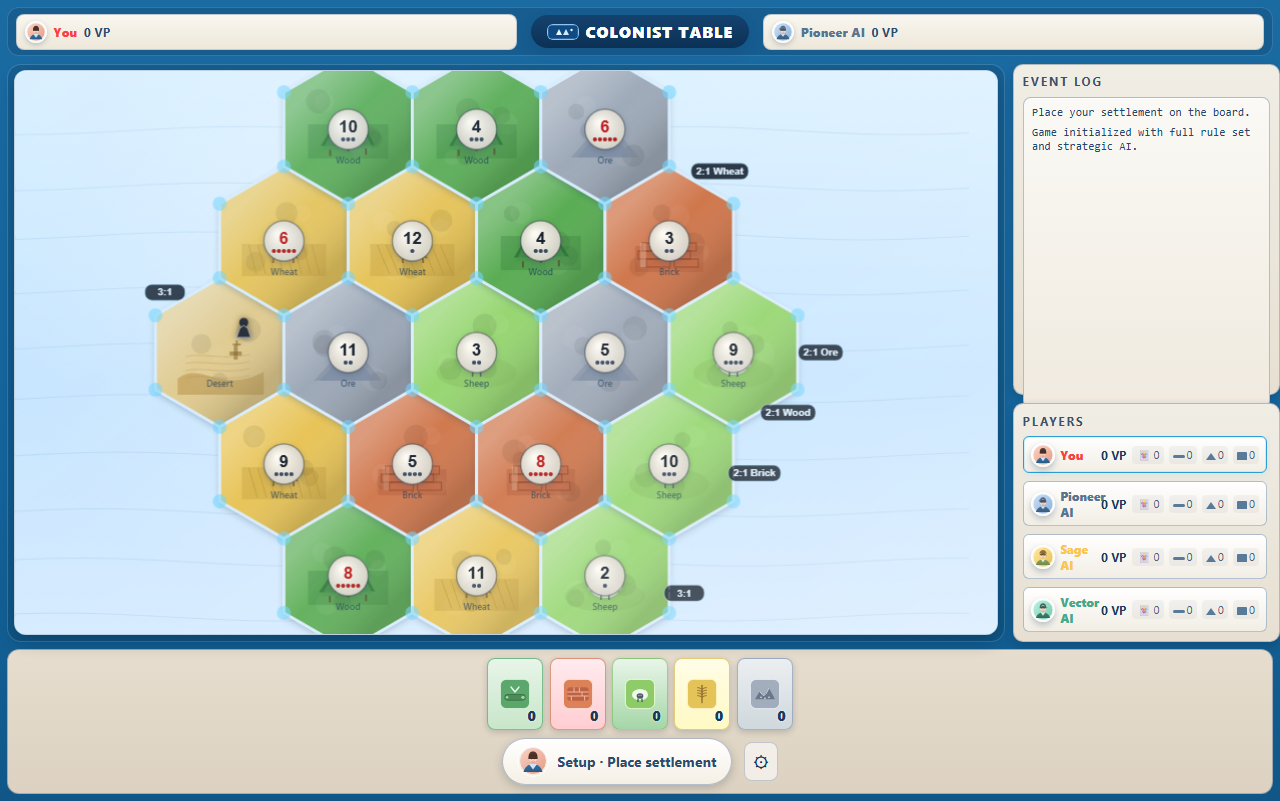
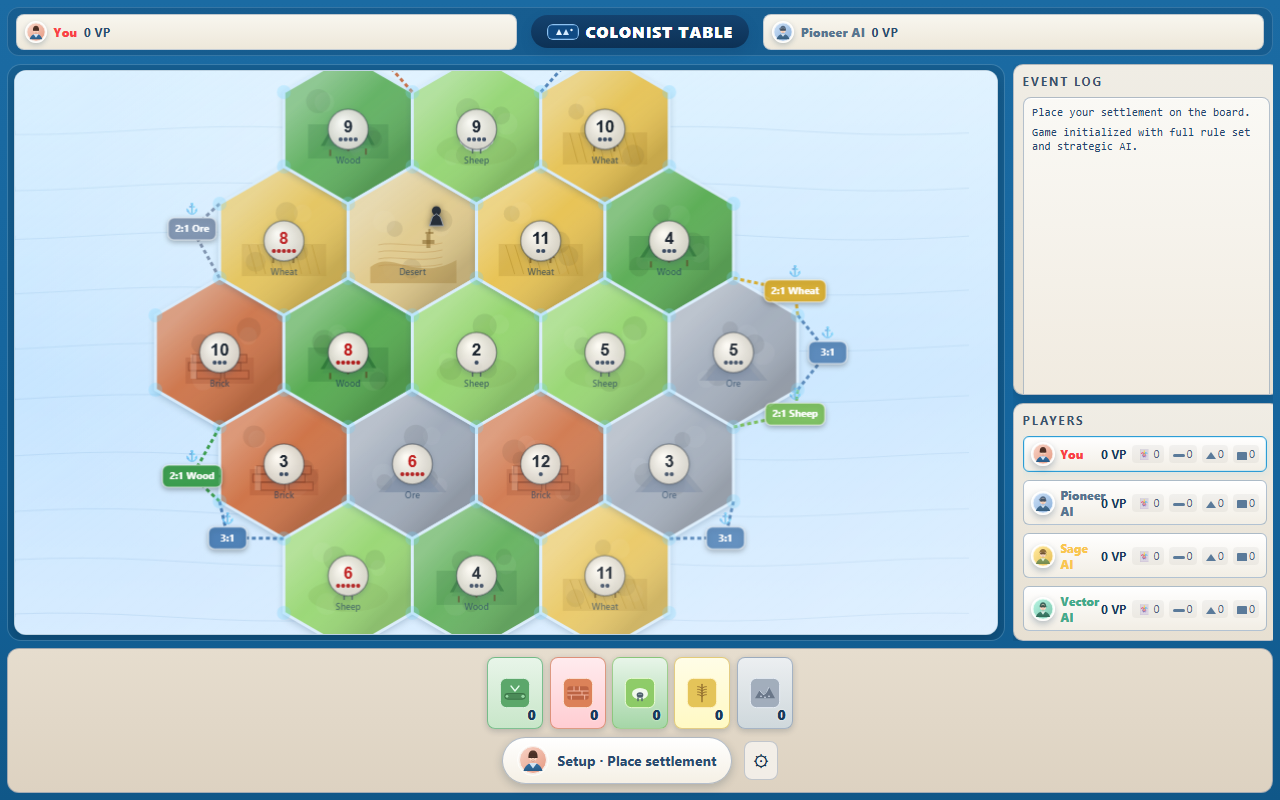
fix: viewport-fit layout, setup-phase hover priority, prominent harbor badges

diff --git a/src/game.js b/src/game.js
@@ -968,7 +968,7 @@ class ColonistFullGame {
 
   handleCanvasMouseDown(event) {
     if (event.button !== 0) return;
-    if (this.pendingAction) return;
+    if (this.pendingAction || this.setupPhase) return;
     this.dragState.active = true;
     const { x: sx, y: sy } = this.getCanvasPoint(event);
     this.dragState.startX = sx;
@@ -1072,6 +1072,28 @@ class ColonistFullGame {
 
     const player = this.currentPlayer;
     const humanMain = player?.isHuman && this.phase === "main";
+
+    if (this.setupPhase && player?.isHuman) {
+      if (this.setupAction === "settlement") {
+        const nodeId = this.findNodeAt(worldX, worldY);
+        if (nodeId != null && this.canBuildSettlement(player, nodeId, true)) {
+          this.hoverNodeId = nodeId;
+          this.hoverTooltip = "Place settlement";
+          this.canvas.style.cursor = "pointer";
+          return;
+        }
+      } else if (this.setupAction === "road") {
+        const edgeId = this.findEdgeAt(worldX, worldY);
+        if (edgeId != null) {
+          this.hoverEdgeId = edgeId;
+          this.hoverTooltip = "Place road";
+          this.canvas.style.cursor = "pointer";
+          return;
+        }
+      }
+      this.canvas.style.cursor = "crosshair";
+      return;
+    }
 
     if (humanMain && this.pendingAction === "road") {
       const edgeId = this.findEdgeAt(worldX, worldY);
@@ -2332,6 +2354,10 @@ class ColonistFullGame {
 
   drawPorts() {
     const ctx = this.ctx;
+    const portColor = {
+      wood: "#3d9e50", brick: "#c66536", sheep: "#6db84e",
+      wheat: "#d4a825", ore: "#7a8da9", any: "#4a7eb5",
+    };
     this.ports.forEach((port) => {
       const edge = this.geometry.edges[port.edgeId];
       const p1 = this.geometry.nodes[edge.nodes[0]];
@@ -2340,38 +2366,63 @@ class ColonistFullGame {
       const my = (p1.y + p2.y) / 2;
       const dx = mx - this.geometry.centerX;
       const dy = my - this.geometry.centerY;
-      const length = Math.hypot(dx, dy) || 1;
-      const ox = (dx / length) * 17;
-      const oy = (dy / length) * 17;
+      const len = Math.hypot(dx, dy) || 1;
+      const nx = dx / len;
+      const ny = dy / len;
 
-      ctx.strokeStyle = "rgba(197, 231, 255, 0.72)";
-      ctx.lineWidth = 2;
+      const dockDist = 30;
+      const dockX = mx + nx * dockDist;
+      const dockY = my + ny * dockDist;
+      const color = portColor[port.type] || portColor.any;
+
+      ctx.save();
+      ctx.strokeStyle = color;
+      ctx.lineWidth = 3;
+      ctx.setLineDash([4, 3]);
       ctx.beginPath();
-      ctx.moveTo(mx, my);
-      ctx.lineTo(mx + ox, my + oy);
+      ctx.moveTo(p1.x, p1.y);
+      ctx.lineTo(dockX, dockY);
+      ctx.moveTo(p2.x, p2.y);
+      ctx.lineTo(dockX, dockY);
       ctx.stroke();
+      ctx.setLineDash([]);
+      ctx.restore();
 
-      ctx.beginPath();
-      ctx.arc(mx + ox, my + oy, 2.8, 0, Math.PI * 2);
-      ctx.fillStyle = "rgba(233, 244, 255, 0.9)";
-      ctx.fill();
-
+      ctx.save();
+      ctx.shadowColor = "rgba(0,0,0,0.3)";
+      ctx.shadowBlur = 5;
+      ctx.shadowOffsetY = 2;
       const label = port.type === "any" ? "3:1" : `2:1 ${RESOURCE_LABEL[port.type]}`;
-      const labelWidth = Math.max(40, ctx.measureText(label).width + 10);
-      const boxX = mx + ox * 1.35 - labelWidth / 2;
-      const boxY = my + oy * 1.35 - 8;
-      this.drawRoundedRect(boxX, boxY, labelWidth, 16, 7);
-      ctx.fillStyle = "rgba(16, 26, 40, 0.88)";
-      ctx.fill();
-      ctx.strokeStyle = "rgba(173, 225, 255, 0.58)";
-      ctx.lineWidth = 1;
-      ctx.stroke();
+      ctx.font = "700 10px Inter, system-ui, sans-serif";
+      const tw = ctx.measureText(label).width;
+      const boxW = Math.max(38, tw + 14);
+      const boxH = 22;
+      const bx = dockX - boxW / 2;
+      const by = dockY - boxH / 2;
 
-      ctx.fillStyle = "#ddf1ff";
-      ctx.font = "700 10px Inter, sans-serif";
+      this.drawRoundedRect(bx, by, boxW, boxH, 6);
+      ctx.fillStyle = color;
+      ctx.fill();
+      ctx.strokeStyle = "rgba(255,255,255,0.5)";
+      ctx.lineWidth = 1.5;
+      ctx.stroke();
+      ctx.restore();
+
+      ctx.save();
+      ctx.fillStyle = "#fff";
+      ctx.font = "700 10px Inter, system-ui, sans-serif";
       ctx.textAlign = "center";
       ctx.textBaseline = "middle";
-      ctx.fillText(label, boxX + labelWidth / 2, boxY + 8.5);
+      ctx.fillText(label, dockX, dockY + 0.5);
+      ctx.restore();
+
+      ctx.save();
+      const shipY = dockY - boxH / 2 - 8;
+      ctx.font = "12px serif";
+      ctx.textAlign = "center";
+      ctx.textBaseline = "middle";
+      ctx.fillText("⚓", dockX, shipY);
+      ctx.restore();
     });
   }
 

diff --git a/styles.css b/styles.css
@@ -788,11 +788,12 @@ body {
 }
 
 .app-shell {
-  min-height: 100vh;
+  height: 100vh;
   display: grid;
   grid-template-rows: auto 1fr auto;
   gap: 0.45rem;
   padding: 0.45rem;
+  overflow: hidden;
 }
 
 .table-header {
@@ -813,10 +814,12 @@ body {
 
 main.table-layout {
   display: grid;
-  grid-template-columns: minmax(740px, 1fr) 280px;
+  grid-template-columns: minmax(0, 1fr) 280px;
   gap: 0.5rem;
   padding: 0;
   align-items: stretch;
+  min-height: 0;
+  overflow: hidden;
 }
 
 .board-area {
@@ -824,6 +827,8 @@ main.table-layout {
   border-radius: 14px;
   border: 1px solid rgba(162, 211, 245, 0.26);
   padding: 0.35rem;
+  min-height: 0;
+  overflow: hidden;
 }
 
 .board-panel {
@@ -837,13 +842,15 @@ main.table-layout {
 
 .right-rail {
   display: grid;
-  grid-template-rows: 1fr minmax(0, auto);
+  grid-template-rows: 1fr auto;
   gap: 0.5rem;
   min-height: 0;
+  overflow: hidden;
 }
 
 .rail-log {
-  min-height: 180px;
+  min-height: 0;
+  overflow: hidden;
 }
 
 .rail-players {
@@ -906,7 +913,7 @@ main.table-layout {
 
 .log {
   height: 100%;
-  min-height: 150px;
+  min-height: 0;
   max-height: 100%;
   background: linear-gradient(180deg, #faf9f5, #f0eadf);
   border-color: rgba(129, 151, 176, 0.58);
